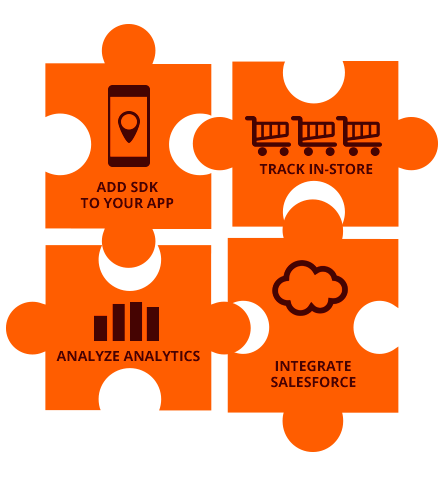
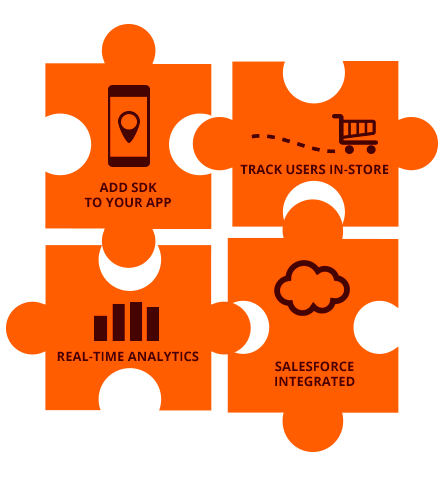
more work

diff --git a/index.php b/index.php
@@ -9,7 +9,7 @@
 		<!-- Basic Page Needs
 		================================================== -->
 		<meta charset="utf-8">
-		<title>CustomerPath - Finally understand your store foot traffic. Take action.</title>
+		<title>CustomerPath - Finally understand your store foot traffic and make it actionable.</title>
 		<meta name="description" content="CustomerPath helps businesses understand their customer base through real-time analytics integrated into Salesforce.">
 		<!-- Mobile Specific Metas
 		================================================== -->
@@ -81,18 +81,24 @@
 									<ul class="slides">
 										<li>
 											<h1>CustomerPath</h1>
-											<h2>Finally understand your store foot traffic. Take action.</h2>
+											<h2>Finally understand your store foot traffic and make it actionable.</h2>
 										</li>
                                         <li>
-											<h1>In-Store Analytics Made Simple</h1>
-                                            
+											<h1>Customer tracking, aisle per aisle</h1>
+                                            <h2>iBeacon Triangulation & WIFI tracking</h2>
 										</li>
                                         <li>
-											<h1>Quick, Easy Installation</h1>
-											<h2>Simply add our SDK to your mobile application to get quick and easy user location data.</h2>
+											<h1>Easy Integration</h1>
+											<h2>Simply add our SDK to your existing apps and get aisle-level customer data.</h2>
 										</li>
+                                         <li>
+											<h1>Actionable Data</h1>
+                                           <h2>Leverage our real-time analytics iPad app and direct salesforce integration.</h2>
+											
+										</li>    
 										<li>
-											<h1>Supercharge Your Sales</h1>
+											<h1>Take Action</h1>
+                                            
 											<a class="btn btn-sm2" title="" href="#signupSlice">
 												<i class="icon-flash"></i> Sign Up Now
 											</a>
